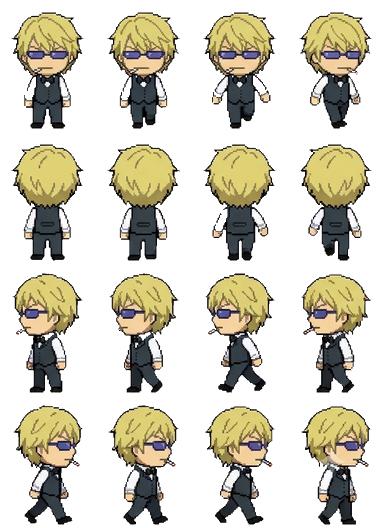
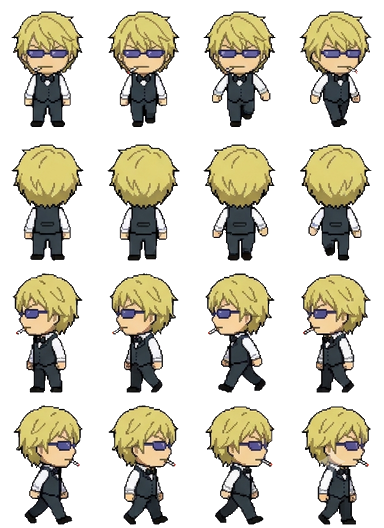
시즈오 흰 셔츠 소매·우스이 팔 누끼 복원
Claude-Session: https://claude.ai/code/session_01KaPsBYLrtbRfMYNG2xeBCK

diff --git a/docs/app.js b/docs/app.js
@@ -48,7 +48,7 @@ function spr(cat, k, col, sc) {
   return `<div class="clip" style="width:${it[2] * sc}px;height:${it[3] * sc}px;POS"><img class="px" src="assets/decor/${cat}.png" alt="" style="width:${S.sw * sc}px;height:${S.sh * sc}px;margin-left:${-col * S.cw * sc}px;margin-top:${-i * S.ch * sc}px"></div>`;
 }
 const icon = (k, sz) => `<span class="itm" style="width:${sz}px;height:${sz}px"><img class="px" src="assets/ui/items.png" alt="" style="width:${IT.length * sz}px;height:${sz}px;margin-left:${-ITM[k].i * sz}px"></span>`;
-const face = (id, w) => { const s = w / 96; return `<img class="px" src="assets/ch/${id}.webp?v=12" alt="" style="position:absolute;width:${384 * s}px;height:${528 * s}px;left:${-(96 * s - w) / 2}px;top:0;max-width:none">`; };
+const face = (id, w) => { const s = w / 96; return `<img class="px" src="assets/ch/${id}.webp?v=13" alt="" style="position:absolute;width:${384 * s}px;height:${528 * s}px;left:${-(96 * s - w) / 2}px;top:0;max-width:none">`; };
 
 // ---------- 저장 ----------
 let fb = null, user = null, S = null, saveT = null;
@@ -115,7 +115,7 @@ function sleepHTML(id, r) {
   const pos = r.a && r.a[0] === 'bed' ? 'left:3%;bottom:20%' : r.b && r.b[0] === 'bed' ? 'right:3%;bottom:20%' : 'left:calc(50% - 44px);bottom:6%';
   const s = 36 / 96;
   return `<div style="position:absolute;width:88px;height:56px;${pos};z-index:5"><div style="position:absolute;inset:0;filter:brightness(.22)">
-    <div style="position:absolute;left:11px;top:1px;width:36px;height:50px;overflow:hidden;transform:rotate(-90deg)"><img class="px" src="assets/ch/${id}.webp?v=12" alt="" style="width:${384 * s}px;height:${528 * s}px;max-width:none;margin-top:${-132 * s}px"></div>
+    <div style="position:absolute;left:11px;top:1px;width:36px;height:50px;overflow:hidden;transform:rotate(-90deg)"><img class="px" src="assets/ch/${id}.webp?v=13" alt="" style="width:${384 * s}px;height:${528 * s}px;max-width:none;margin-top:${-132 * s}px"></div>
     <div style="position:absolute;left:19px;top:19px;width:67px;height:29px;border:2px solid var(--ink);border-radius:8px 6px 4px 4px;background:#8ccff5;background-image:repeating-linear-gradient(90deg,transparent 0 10px,rgba(255,255,255,.5) 10px 13px)"></div></div>
     <span class="emo" style="left:8px;top:-22px;color:#5b6bd6">Z z z</span></div>`;
 }
@@ -125,7 +125,7 @@ function roomHTML(id, o, scale) {
     <div class="floor" style="background-color:${PAL[r.fc][1]};background-image:${tileUrl('floor', r.fl)}"></div>
     ${slot('deco', r.dc, 'left:6%;top:6%')}${slot('furn', r.a, 'left:3%;bottom:20%')}${slot('furn', r.b, 'right:3%;bottom:20%')}${slot('prop', r.pr, 'left:28%;bottom:4%;z-index:2')}
     ${id && o.sleeping ? sleepHTML(id, r) : ''}${id && o.job ? `<div style="position:absolute;left:50%;top:38%;transform:translateX(-50%);z-index:5;background:#fff;border:3px solid var(--ink);border-radius:10px;padding:6px 10px;font-size:11px;text-align:center;line-height:1.5"><img src="assets/ui/ic_job.png" alt="" style="width:18px;vertical-align:-4px"> ${esc(JOB_NAME[id])} 알바 중<br><b id="jobleft">${timeLeft(o.job.until)}</b></div>` : ''}
-    ${id ? `<div class="shadow" id="shd"></div><div class="man" id="man"><img class="px" src="assets/ch/${id}.webp?v=12" alt="${esc(nameOf(id))}"></div><span class="emo" id="emo" hidden></span><span class="mumble" id="mum" hidden></span>` : ''}
+    ${id ? `<div class="shadow" id="shd"></div><div class="man" id="man"><img class="px" src="assets/ch/${id}.webp?v=13" alt="${esc(nameOf(id))}"></div><span class="emo" id="emo" hidden></span><span class="mumble" id="mum" hidden></span>` : ''}
     ${o.sleeping ? '<div class="night"></div>' : ''}
   </div>`;
 }

diff --git a/docs/index.html b/docs/index.html
@@ -12,6 +12,6 @@
 <main id="app" aria-live="polite"></main>
 <div id="toast" role="status" hidden></div>
 <script src="firebase-config.js?v=3"></script>
-<script type="module" src="app.js?v=19"></script>
+<script type="module" src="app.js?v=20"></script>
 </body>
 </html>

diff --git a/tk_chars.py b/tk_chars.py
@@ -19,7 +19,7 @@ SIDE = {
     'blonde_student': dict(left=[(3, 0), (3, 1), (3, 2), (3, 3)], right=None),
     'mole':           dict(left=[(3, 0), (3, 1), (3, 2), (3, 3)], right=None),
     'punk':           dict(left=[(2, 3), (2, 4), (2, 5), (3, 3)], right=None),
-    'bartender':      dict(left=[(2, 0), (2, 1), (2, 2), (3, 1)], right=[(2, 3), (2, 4), (3, 3), (3, 4)]),
+    'bartender':      dict(left=[(2, 0), (2, 1), (2, 2), (3, 1)], right=[(2, 3), (2, 4), (3, 3), (3, 4)], fill_frame=6, outline=True),
     'curly_coat':     dict(left=[(2, 0), (2, 1), (2, 2), (2, 3)], right=None),
     'baseball':       dict(left=[(3, 0), (3, 1), (3, 2), (2, 0)], right=[(2, 1), (2, 2), (2, 3), (2, 4)], trim_front=True, clean_front=True, down=[0, 1, 2], nolegpeel=True),
     'ume':            dict(left='mirror', right=[(2, 1), (2, 3), (2, 4), (2, 5)], down=[0, 1, 2, 3], up=[0, 1, 2, 3]),
@@ -29,7 +29,7 @@ SIDE = {
     'headphone':      dict(left='mirror', right=[(2, 1), (2, 2), (2, 3), (2, 4)]),
     'nifuji':         dict(left=[(3, 0), (3, 1)], right=[(2, 1), (2, 2)]),
     'gintoki':        dict(left=[(2, 1), (2, 2), (2, 3), (2, 4)], right='mirror', fill_inside=True, phase=False, nofill=True),
-    'usui':           dict(left='mirror', right=[(2, 1), (2, 2), (2, 3), (2, 4)], up=[0, 1, 2, 4], down=[1, 2, 3, 4]),
+    'usui':           dict(left='mirror', right=[(2, 1), (2, 2), (2, 3), (2, 4)], up=[0, 1, 2, 4], down=[1, 2, 3, 4], fill_frame=6, outline=True),
     'izumi':          dict(left='mirror', right=[(2, 1), (2, 2), (3, 2), (3, 3)], fill_inside=True, phase=False, nofill=True),
     'ponytail':       dict(left=[(3, 0), (3, 1), (3, 2), (3, 3)], right=[(2, 1), (2, 2), (2, 3), (2, 4)]),
     'spiky':          dict(left=[(3, 0), (3, 1), (3, 2), (3, 3)], right=[(2, 1), (2, 2), (2, 3), (2, 4)], fill_frame=3),
